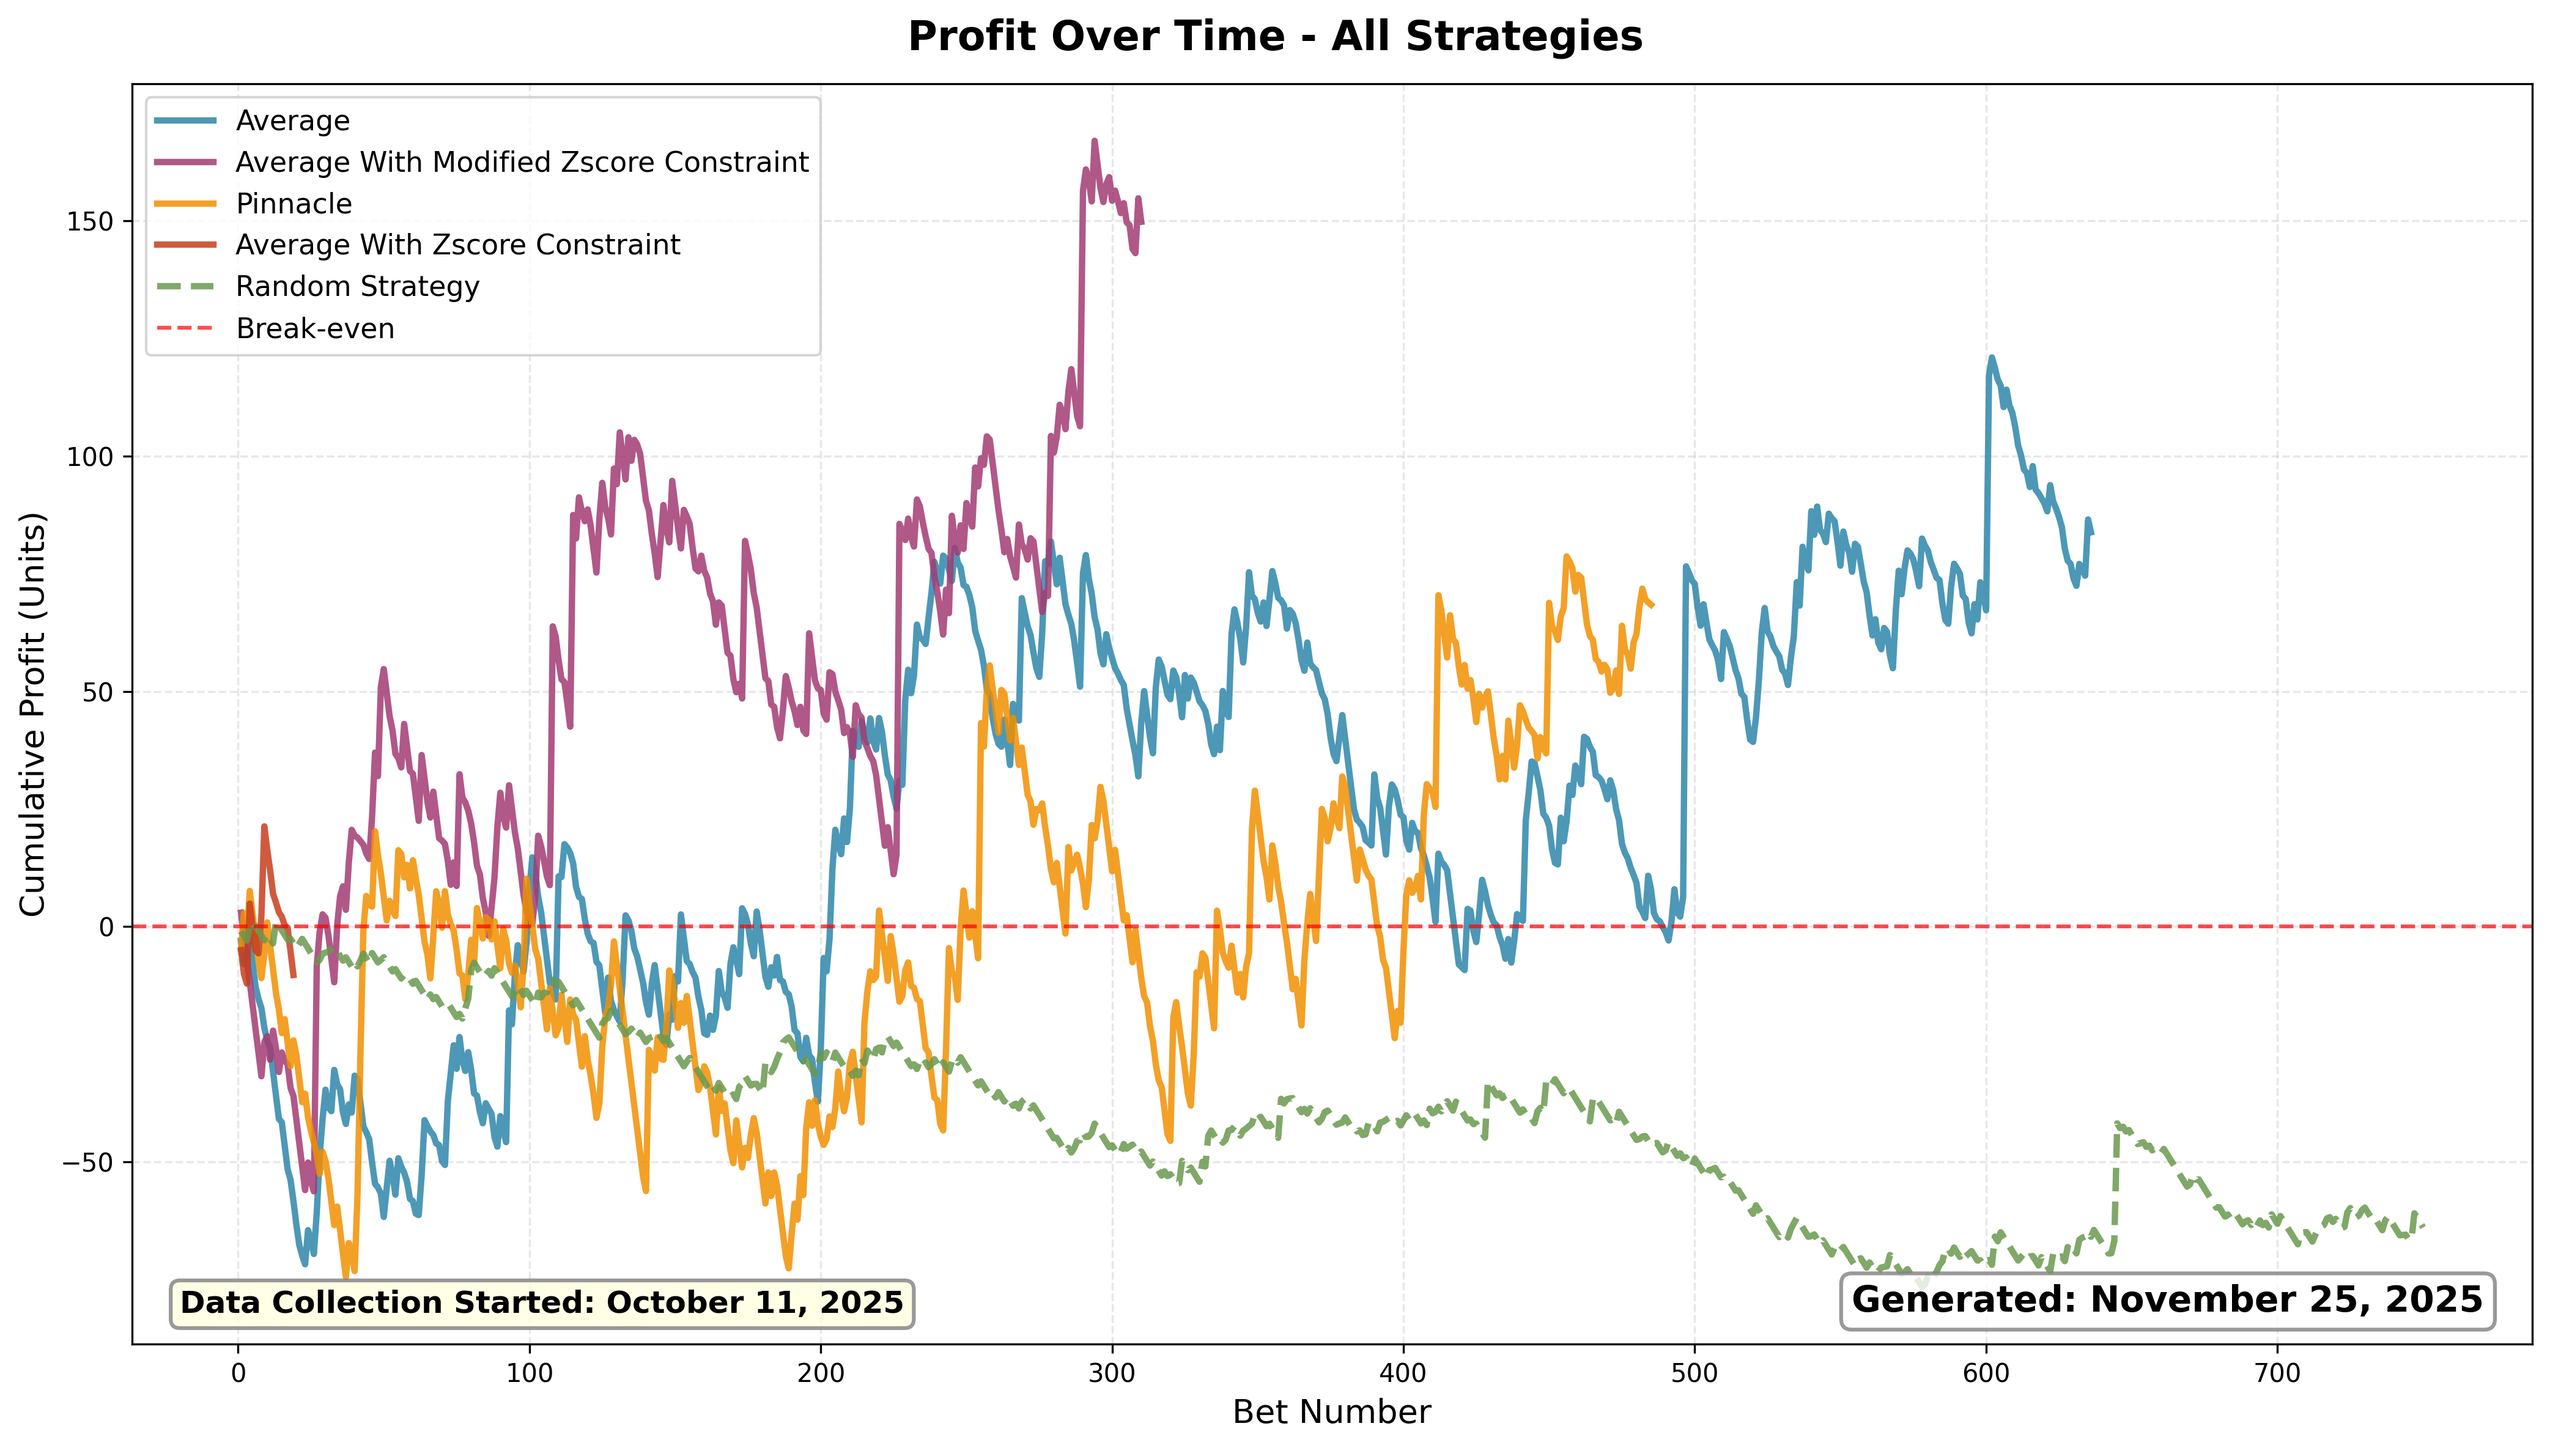
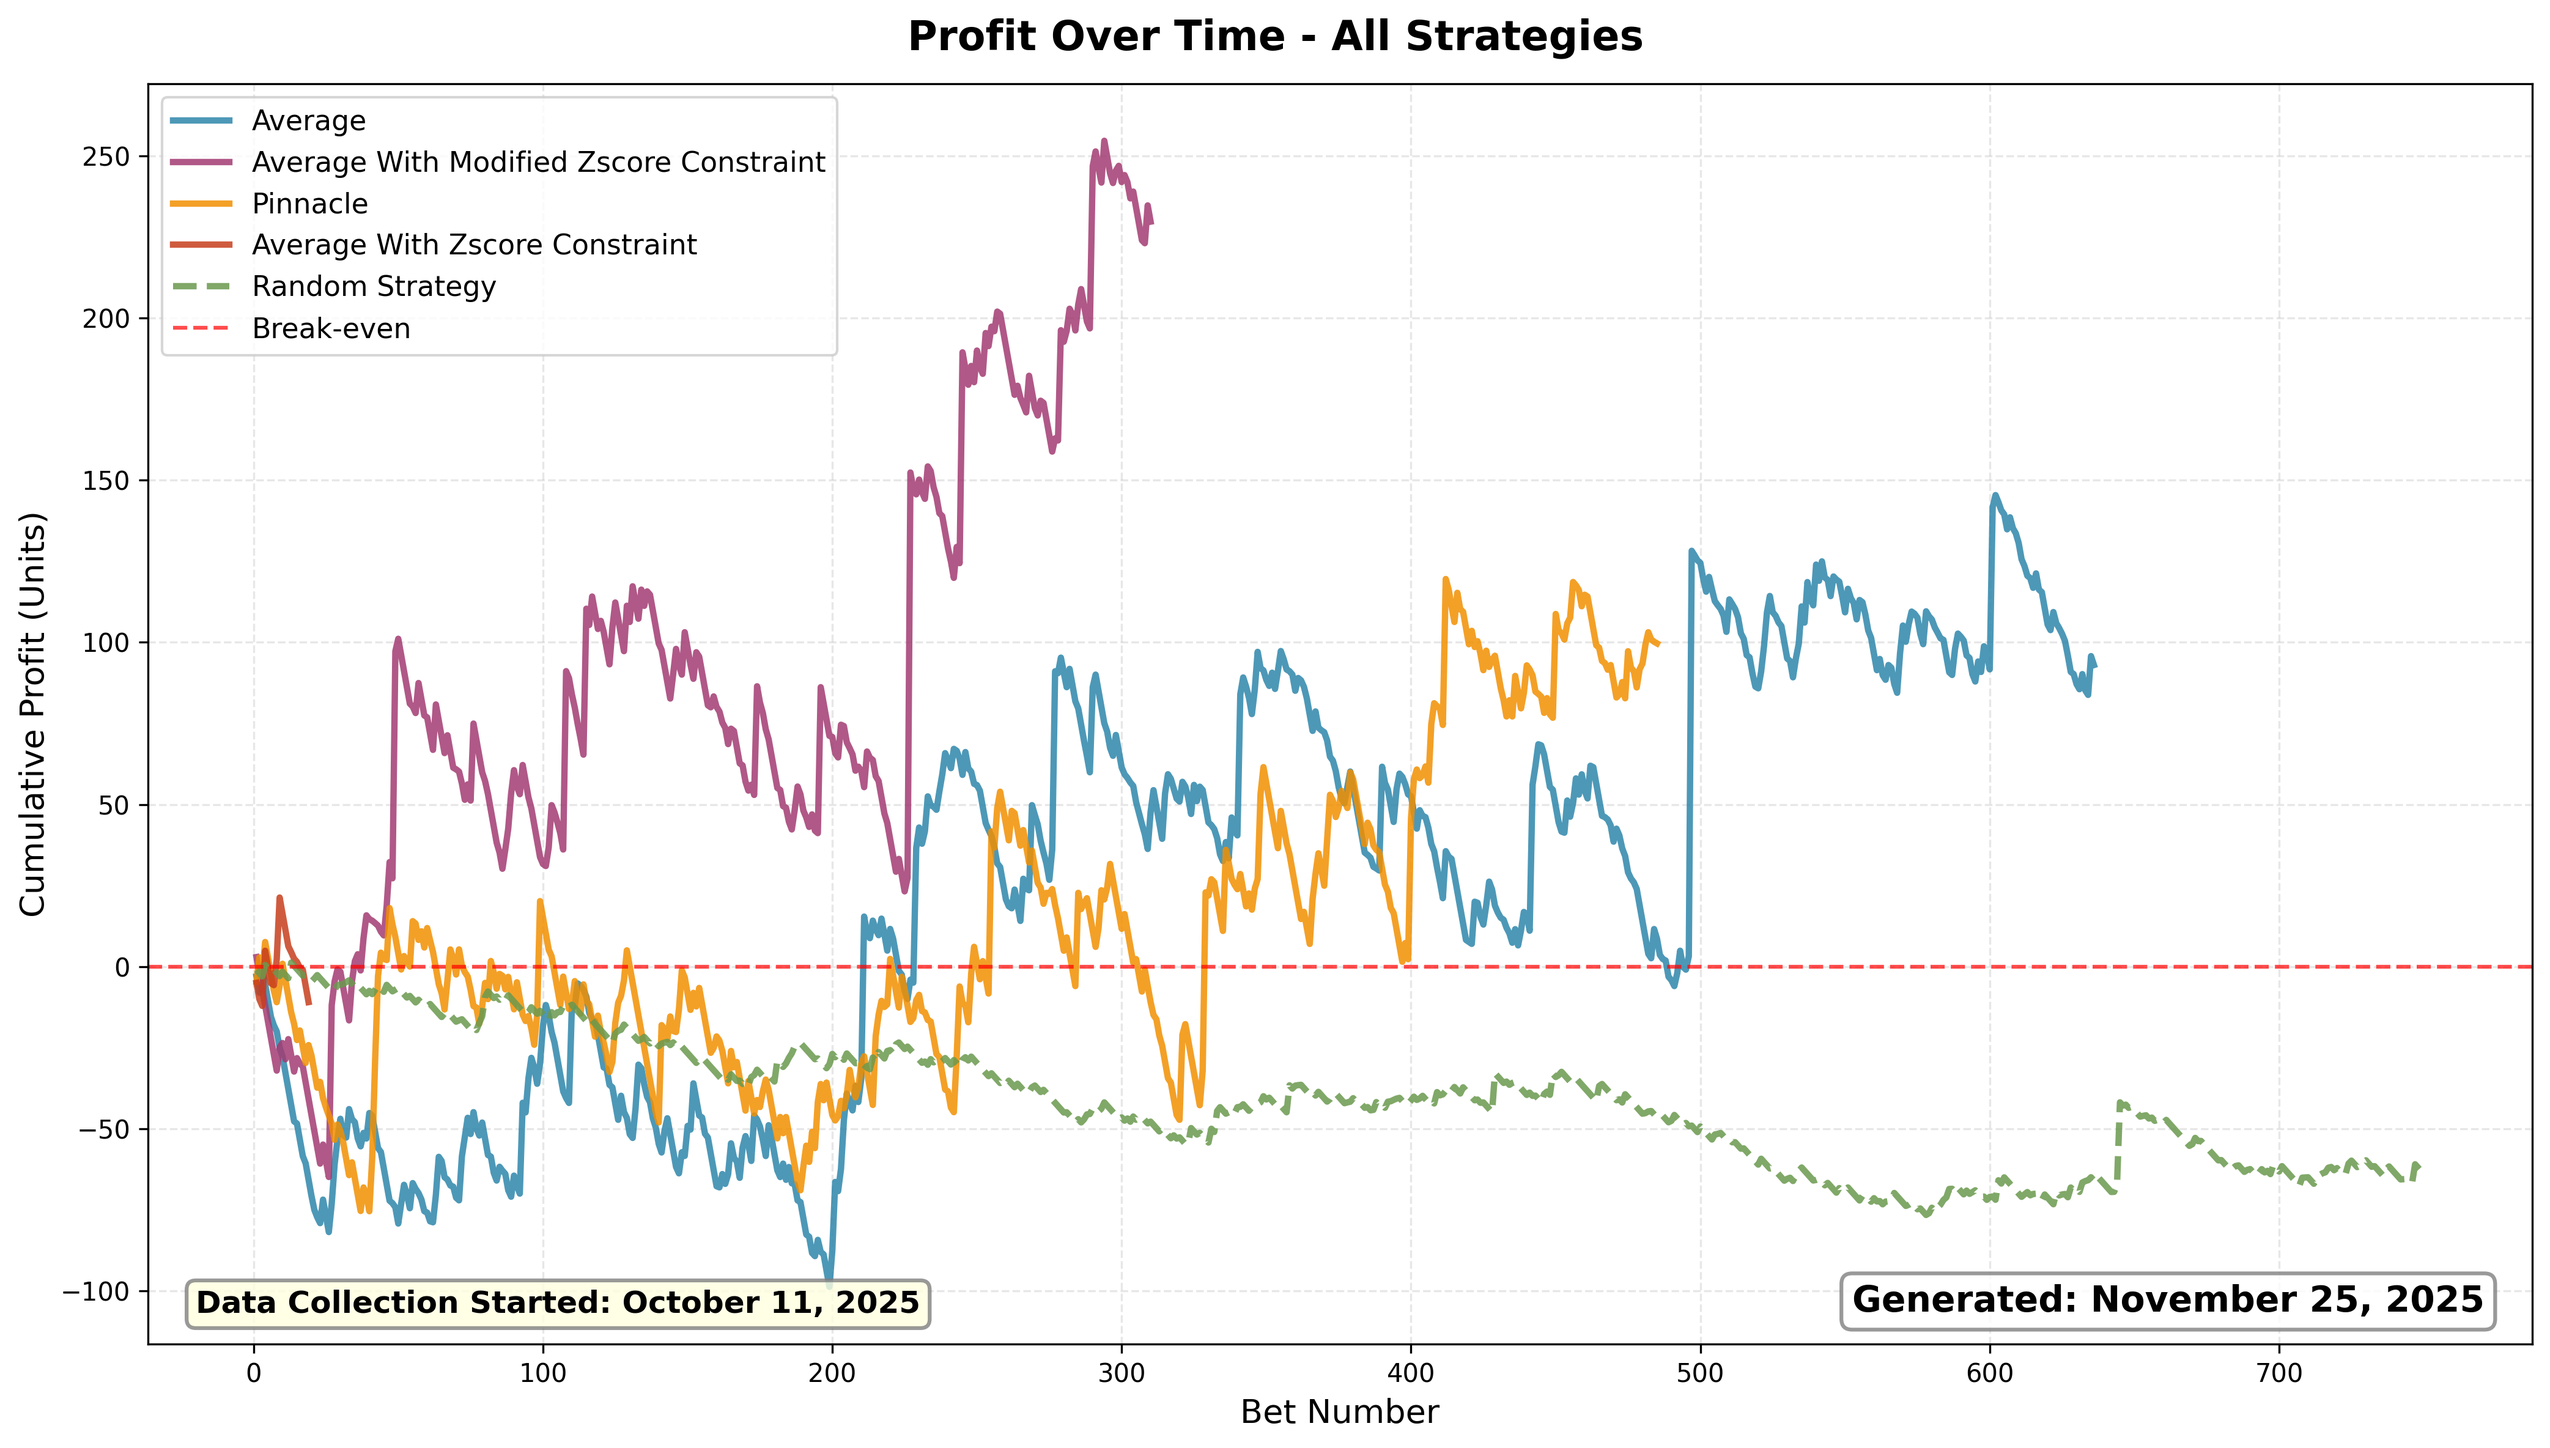
change bet sizing to use max size if ev > 20%

diff --git a/codebase/analysis/roi.py b/codebase/analysis/roi.py
@@ -56,10 +56,12 @@ STRATEGIES = [
 KELLY_FRACTION = 0.75
 
 # EV threshold - only place bets with EV above this percentage
-MIN_EV_THRESHOLD = 0.05 
+MIN_EV_THRESHOLD = 0.05
 
 # Z-score threshold for max bet
+EV_MAX_BET_THRESHOLD = 0.2
 ZSCORE_MAX_BET_THRESHOLD = 3.5
+
 
 
 def kelly_bet(odds, fair_odds, ev=None, zscore=None, max_multiplier=5.0):
@@ -83,6 +85,8 @@ def kelly_bet(odds, fair_odds, ev=None, zscore=None, max_multiplier=5.0):
     if ev is not None and not pd.isna(ev):
         if ev < MIN_EV_THRESHOLD:
             return 0
+        if ev > EV_MAX_BET_THRESHOLD:
+            return max_multiplier
 
     p = 1 / fair_odds
     p = max(min(p, 0.9999), 0.0001)

diff --git a/codebase/analysis/profit_over_time.py b/codebase/analysis/profit_over_time.py
@@ -60,6 +60,7 @@ KELLY_FRACTION = 0.75
 MIN_EV_THRESHOLD = 0.05  # 5% minimum EV to place bet
 
 # Z-score threshold for max bet
+EV_MAX_BET_THRESHOLD = 0.2
 ZSCORE_MAX_BET_THRESHOLD = 3.5
 
 
@@ -84,6 +85,8 @@ def kelly_bet(odds, fair_odds, ev=None, zscore=None, max_multiplier=5.0):
     if ev is not None and not pd.isna(ev):
         if ev < MIN_EV_THRESHOLD:
             return 0
+        if ev > EV_MAX_BET_THRESHOLD:
+            return max_multiplier
 
     p = 1 / fair_odds
     p = max(min(p, 0.9999), 0.0001)
